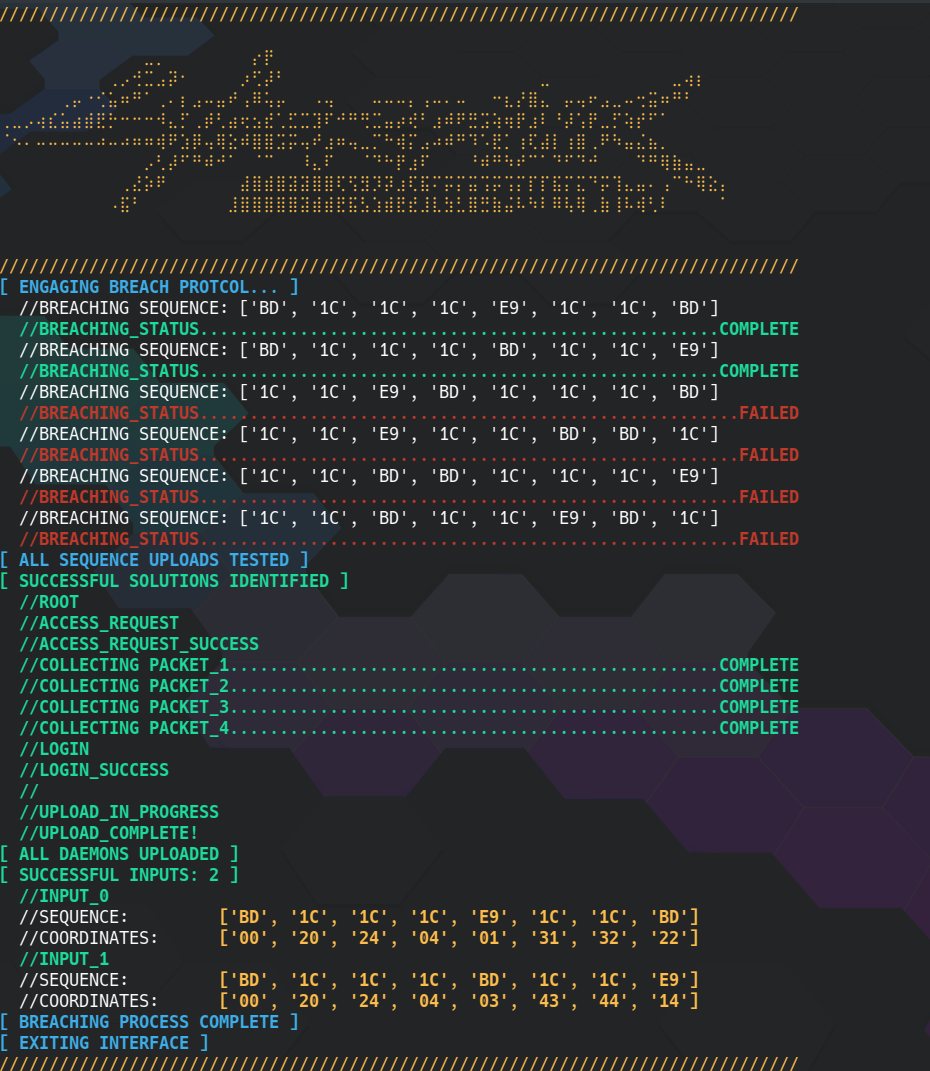
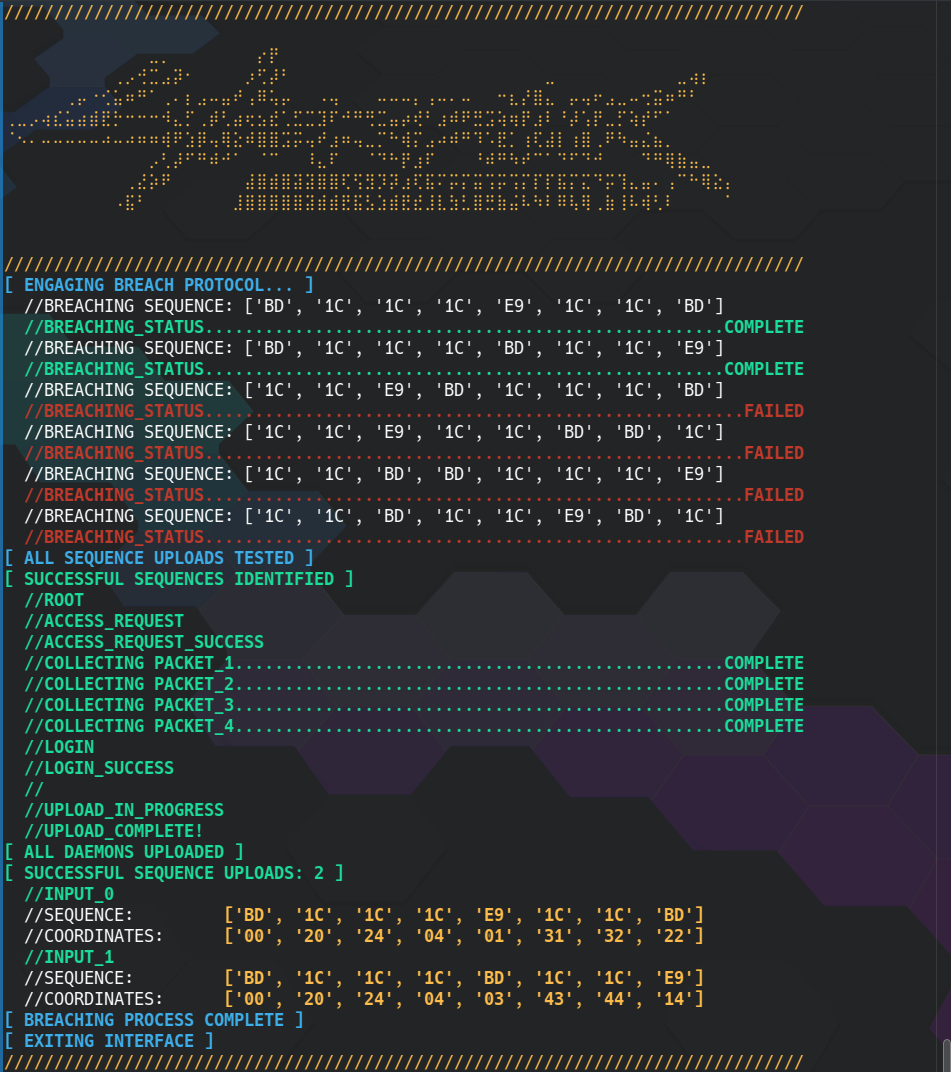
image update

diff --git a/breach_protocol.py b/breach_protocol.py
@@ -82,7 +82,7 @@ def main():
 
 	# Print intro
 	msg.print_warn(UNNECESSARY_INTRO)
-	msg.print_info("[ ENGAGING BREACH PROTCOL... ]")
+	msg.print_info("[ ENGAGING BREACH PROTOCOL... ]")
 	
 	# Find breach solutions
 	SeqHack = SequenceHack(FRAME, SEQUENCES, BUFFER_SIZE)
@@ -109,7 +109,7 @@ def main():
 	else:
 
 		# print success message 
-		msg.print_pass("[ SUCCESSFUL SOLUTIONS IDENTIFIED ]")
+		msg.print_pass("[ SUCCESSFUL SEQUENCES IDENTIFIED ]")
 		msg.print_pass("  //ROOT")
 		msg.print_pass("  //ACCESS_REQUEST")
 		msg.print_pass("  //ACCESS_REQUEST_SUCCESS")
@@ -123,7 +123,7 @@ def main():
 		msg.print_pass("  //UPLOAD_IN_PROGRESS")
 		msg.print_pass("  //UPLOAD_COMPLETE!")
 		msg.print_pass("[ ALL DAEMONS UPLOADED ]")
-		msg.print_pass("[ SUCCESSFUL INPUTS: " + str(len(solutions)) + " ]")
+		msg.print_pass("[ SUCCESSFUL SEQUENCE UPLOADS: " + str(len(solutions)) + " ]")
 
 		# print solutions 
 		solution_index = 0
